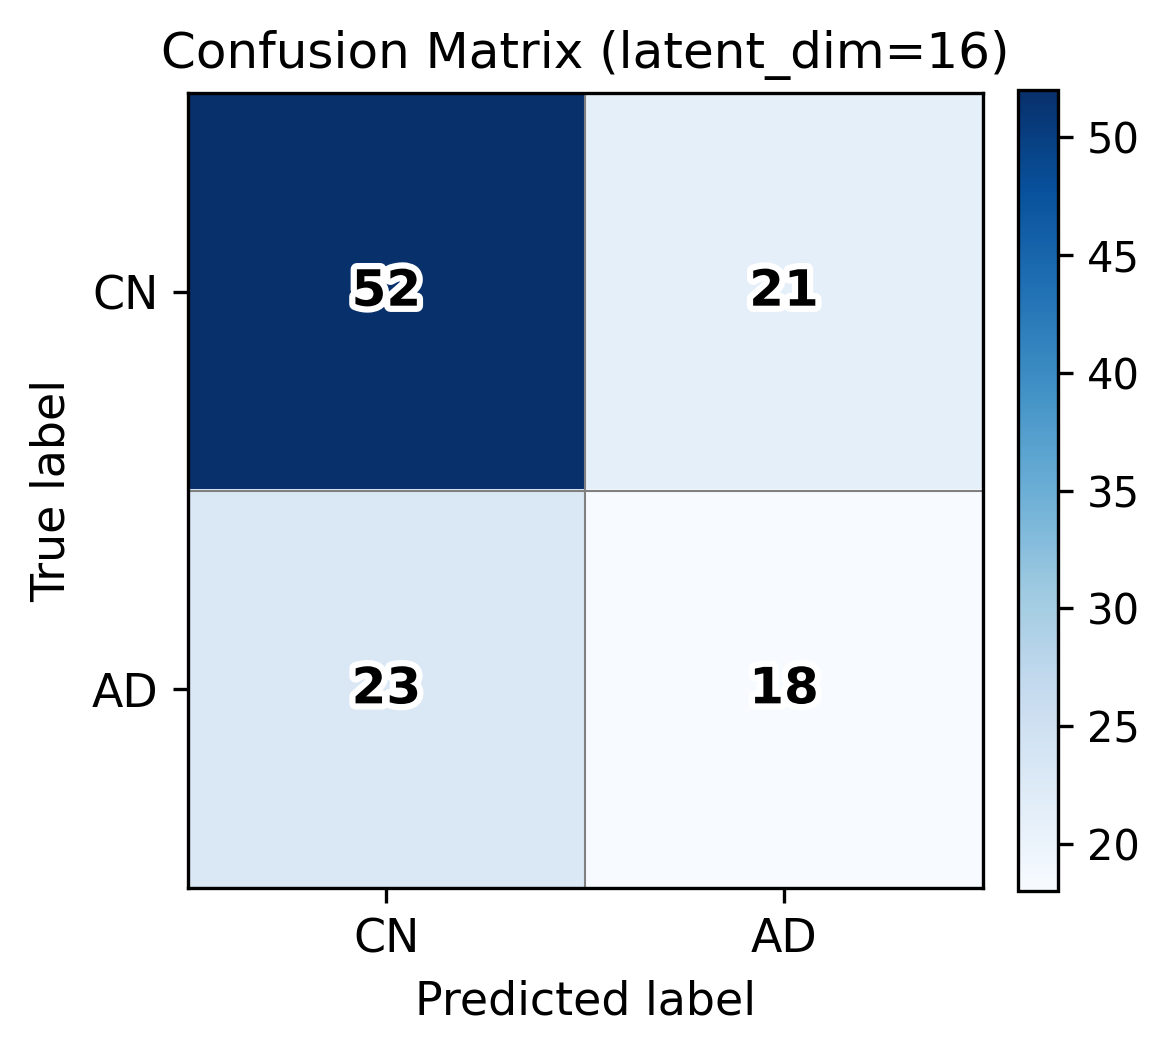
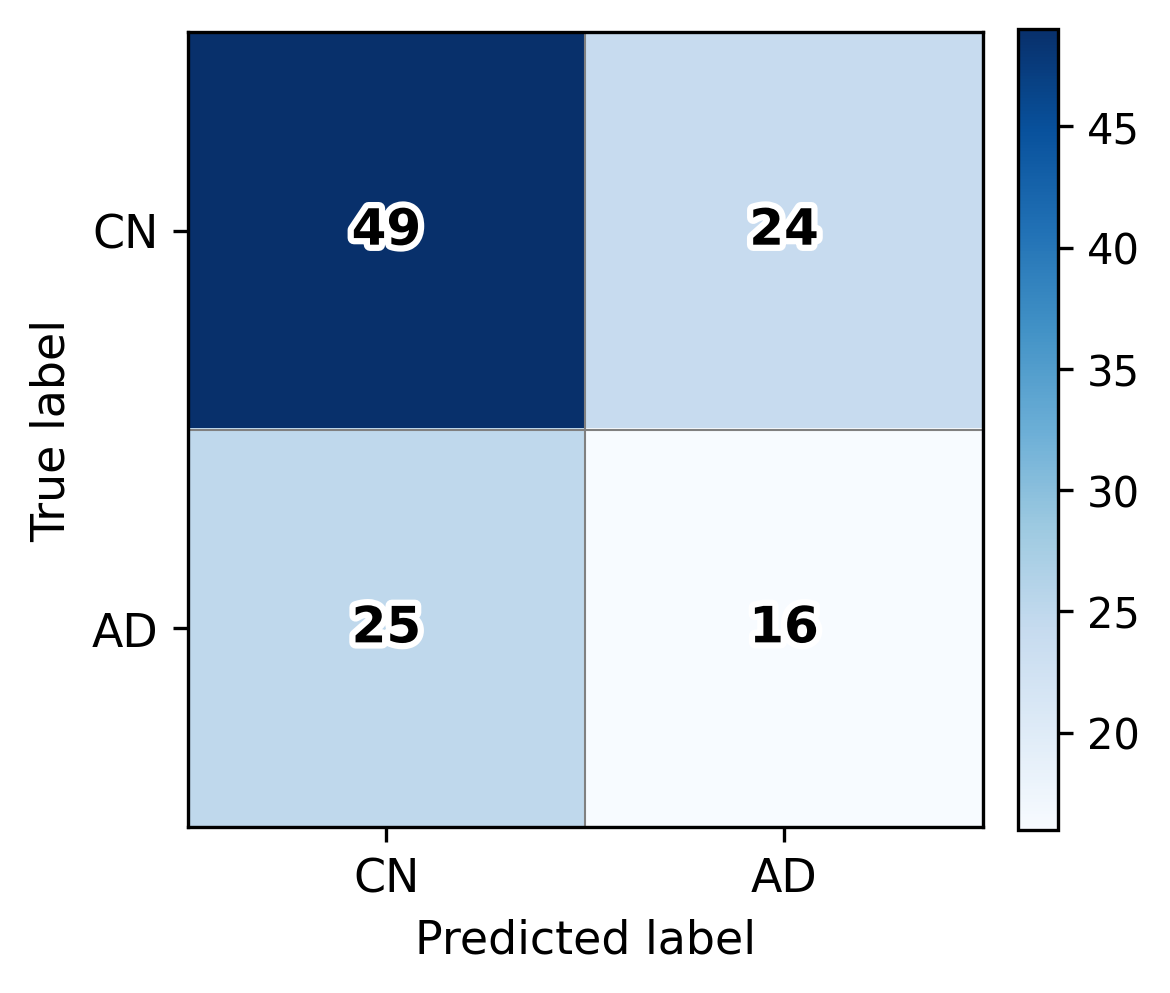
change

diff --git a/cae_adni_knn_ver2_3.py b/cae_adni_knn_ver2_3.py
@@ -139,7 +139,7 @@ class Conv3dAutoEncoder(nn.Module):
 def save_confusion_matrix(cm, classes, title, save_path):
     plt.figure(figsize=(4, 4), dpi=300)
     plt.imshow(cm, cmap="Blues")
-    plt.title(title, fontsize=12)
+    #plt.title(title, fontsize=12)
     plt.colorbar()
 
     plt.xticks([0, 1], classes)
@@ -157,9 +157,8 @@ def save_confusion_matrix(cm, classes, title, save_path):
                     pe.Normal()
                 ]
             )
-
-    plt.xlabel("Predicted")
-    plt.ylabel("True")
+    plt.ylabel("True label", fontsize=11)
+    plt.xlabel("Predicted label", fontsize=11)
     plt.tight_layout()
     plt.savefig(save_path)
     plt.close()

diff --git a/cae_adni_knn_origin.py b/cae_adni_knn_origin.py
@@ -133,7 +133,7 @@ def save_confusion_matrix(cm, classes, title, save_path):
     plt.figure(figsize=(4, 4), dpi=300)
     plt.imshow(cm, cmap="Blues")
 
-    plt.title(title, fontsize=12)
+    #plt.title(title, fontsize=12)
     plt.colorbar(fraction=0.046, pad=0.04)
 
     tick_marks = np.arange(len(classes))
